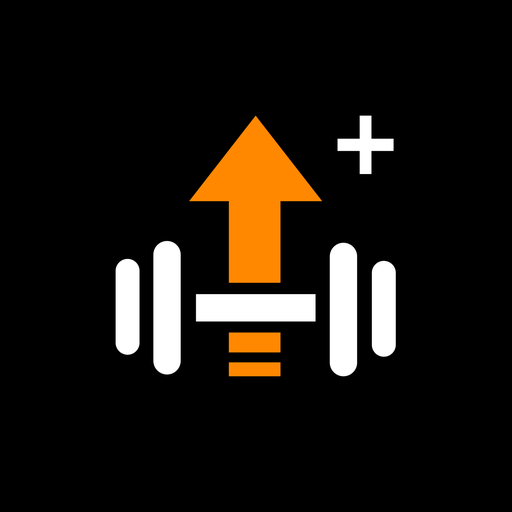
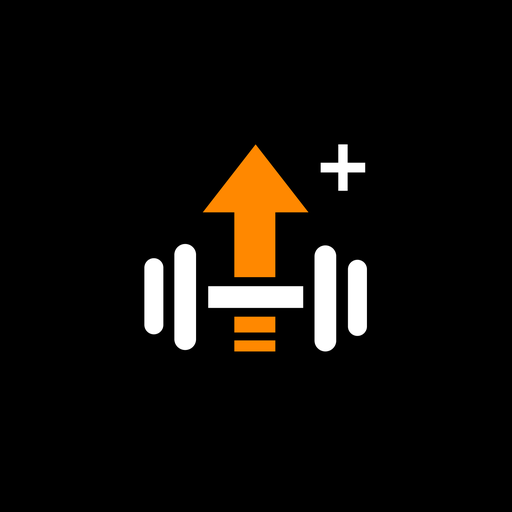
Icone Android : le dessin tient dans la zone que le masque preserve

Changed region(s): [[0.2188, 0.2188, 0.7812, 0.75], [0.625, 0.2188, 0.7812, 0.375]]

diff --git a/sw.js b/sw.js
@@ -1,5 +1,5 @@
 /* Tonnup — service worker : l'app marche hors ligne et se met à jour toute seule. */
-const CACHE = "tonnup-v2";
+const CACHE = "tonnup-v3";
 const ASSETS = ["./", "./index.html", "./manifest.webmanifest", "./confidentialite.html", "./icon-192.png", "./icon-512.png", "./apple-touch-icon.png",
   "./img/push.jpg", "./img/pull.jpg", "./img/jambes.jpg", "./img/abdos.jpg", "./img/cardio.jpg", "./img/modif.png", "./img/tel1.png", "./img/tel2.png",
   "./img/muscles/back-avant-bras.png", "./img/muscles/back-base.png", "./img/muscles/back-deltoides.png", "./img/muscles/back-fessiers.png", "./img/muscles/back-grand-dorsal.png", "./img/muscles/back-ischio-jambiers.png", "./img/muscles/back-ligne.png", "./img/muscles/back-lombaires.png", "./img/muscles/back-mollets.png", "./img/muscles/back-trapezes.png", "./img/muscles/back-triceps.png", "./img/muscles/front-abdos.png", "./img/muscles/front-avant-bras.png", "./img/muscles/front-base.png", "./img/muscles/front-biceps.png", "./img/muscles/front-deltoides.png", "./img/muscles/front-ligne.png", "./img/muscles/front-mollets.png", "./img/muscles/front-pectoraux.png", "./img/muscles/front-quadriceps.png", "./img/muscles/front-trapezes.png"];

diff --git a/index.html b/index.html
@@ -2770,7 +2770,7 @@ function exIcon(ex, sm){
 }
 
 const KEY="tonnage_v1";
-const BUILD = "1 septembre 2026 00h11";   /* remplacé par build.ps1 : date et heure de la construction */
+const BUILD = "1 septembre 2026 00h27";   /* remplacé par build.ps1 : date et heure de la construction */
 const MARK = "tonnage_marker";
 /* diagnostic : que survit-il entre deux ouvertures ? */
 const diag = {ls:"?", idb:"?", lsMark:null, idbMark:null, loadedSavedAt:null};
